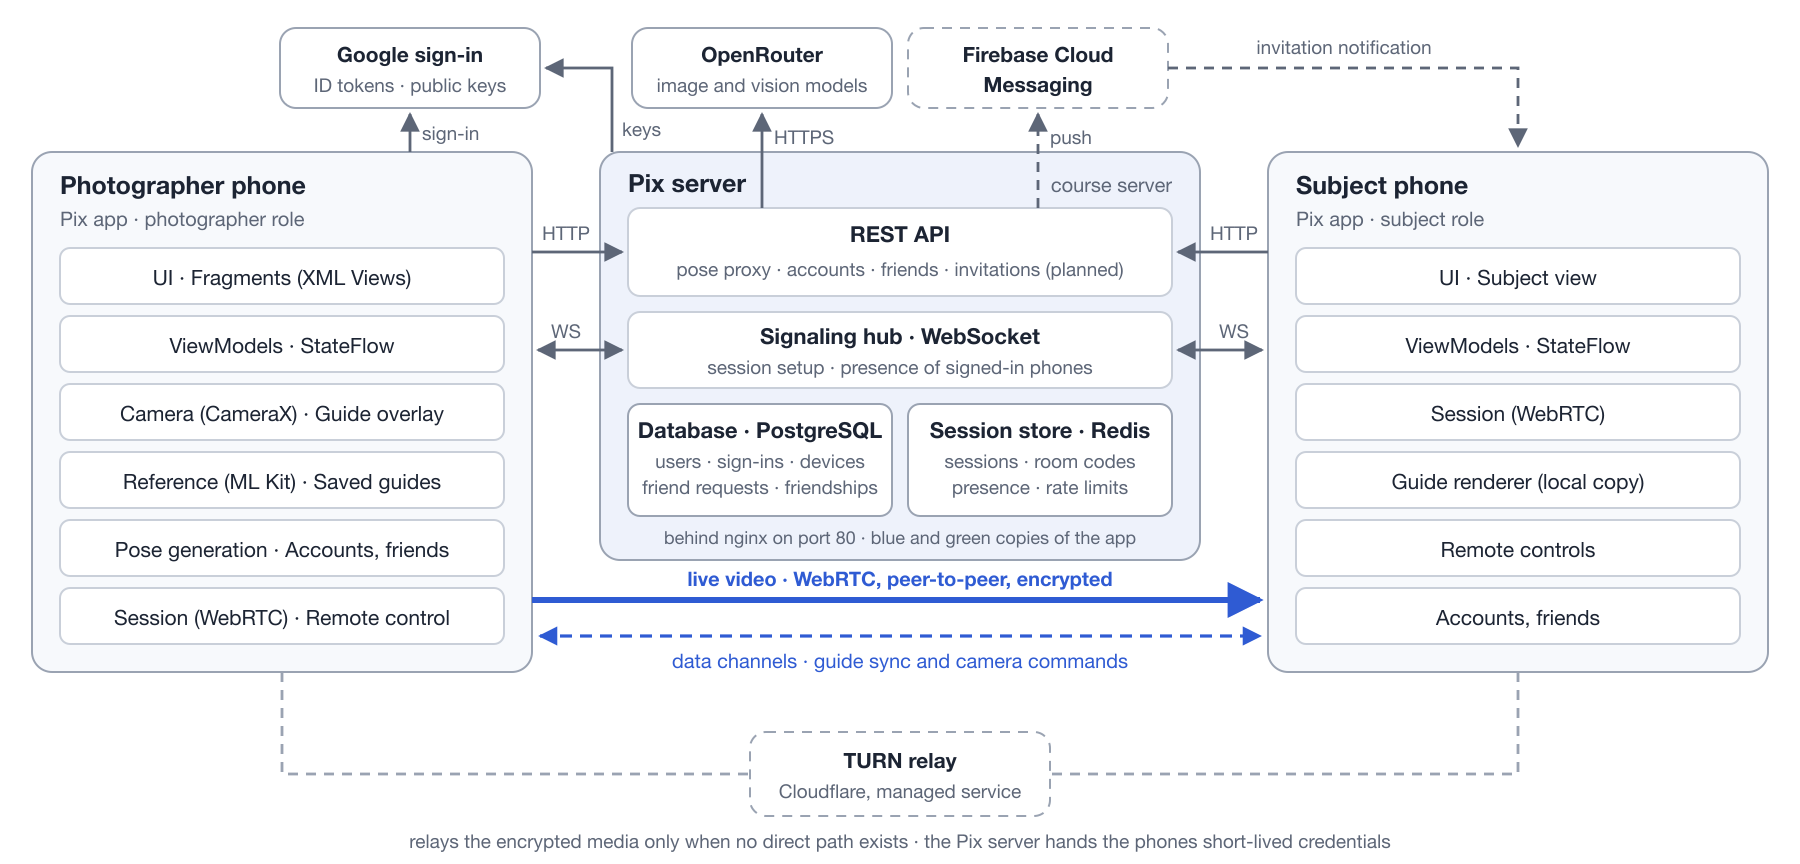
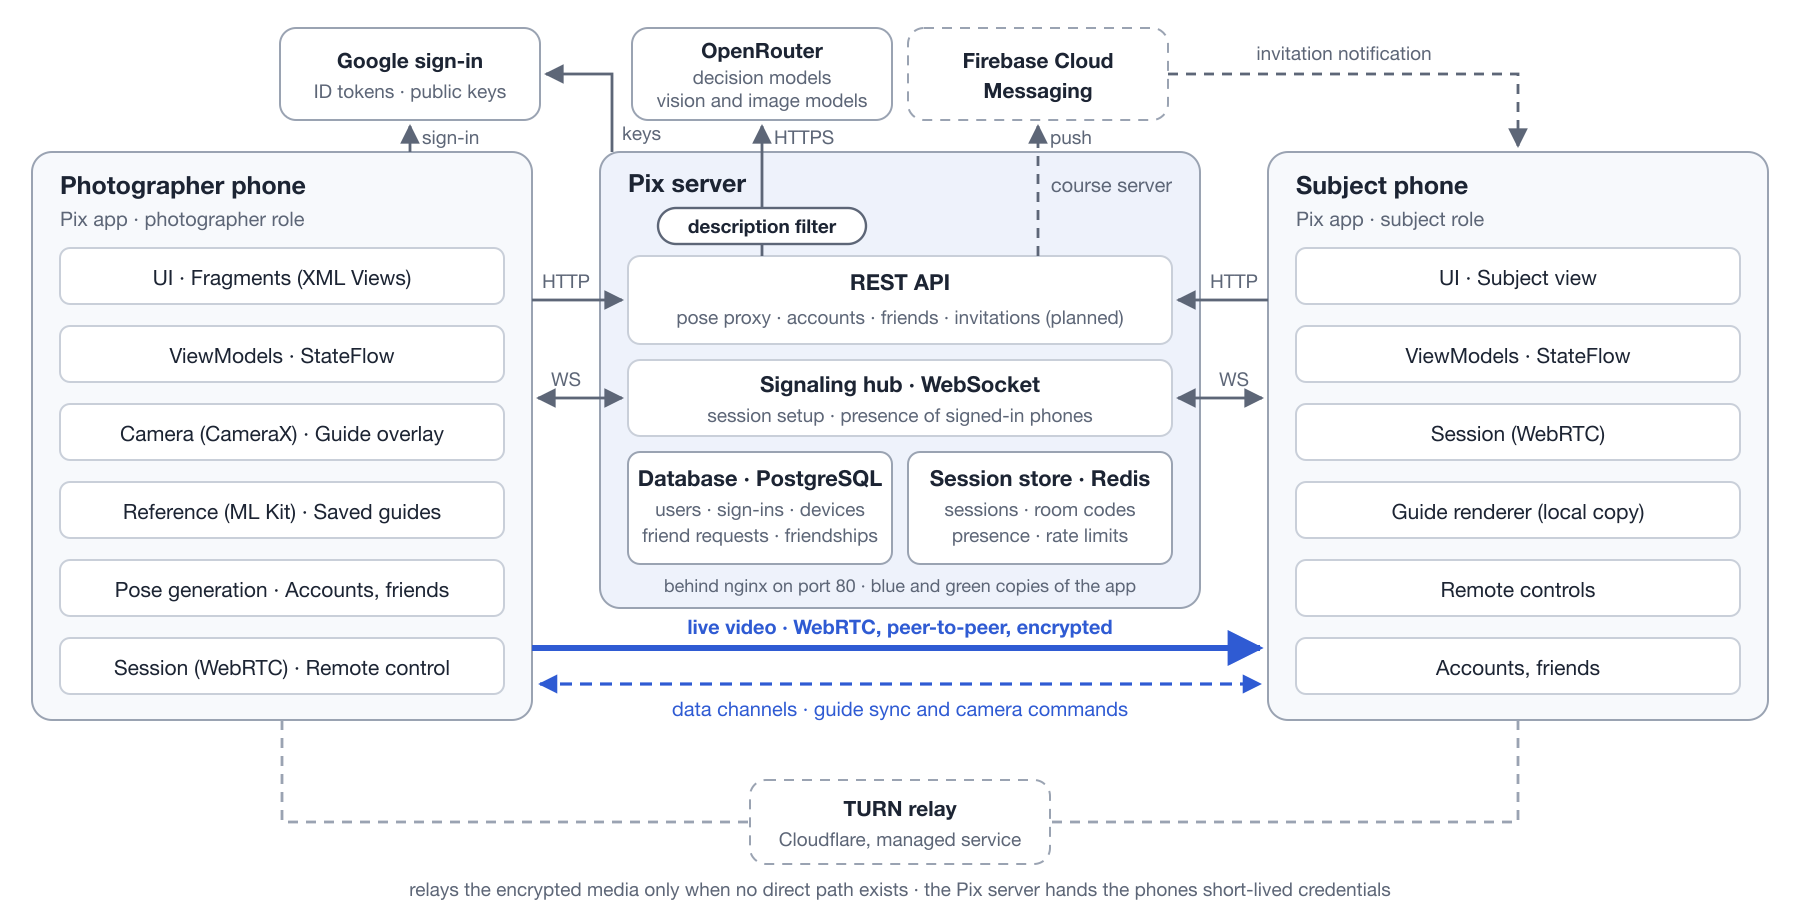
docs: show the description filter in the architecture figure

diff --git a/wiki/design/design_architecture.html b/wiki/design/design_architecture.html
@@ -23,96 +23,100 @@
 <p>Open this file in a browser to see the drawing. The published image is <code>design_target_architecture.png</code>.</p>
 
 <h2>Figure 1 · <code>design_target_architecture.png</code> · architecture as built</h2>
-<svg data-image="design_target_architecture.png" viewBox="0 0 900 432" xmlns="http://www.w3.org/2000/svg" font-family="Helvetica Neue, Arial, sans-serif" fill="#1c2433" style="width:100%;height:auto">
+<svg data-image="design_target_architecture.png" viewBox="0 0 900 456" xmlns="http://www.w3.org/2000/svg" font-family="Helvetica Neue, Arial, sans-serif" fill="#1c2433" style="width:100%;height:auto">
 <defs>
   <marker id="ah2" viewBox="0 0 10 10" refX="9" refY="5" markerWidth="7" markerHeight="7" orient="auto-start-reverse"><path d="M0,0 L10,5 L0,10 z" fill="#5d6677"/></marker>
   <marker id="ahb2" viewBox="0 0 10 10" refX="9" refY="5" markerWidth="6" markerHeight="6" orient="auto-start-reverse"><path d="M0,0 L10,5 L0,10 z" fill="#2f5bd3"/></marker>
 </defs>
 <!-- external services -->
-<rect x="140" y="14" width="130" height="40" rx="8" fill="#fff" stroke="#9aa3b2"/>
-<text x="205" y="31" text-anchor="middle" font-size="10.5" font-weight="700">Google sign-in</text>
-<text x="205" y="46" text-anchor="middle" font-size="9.5" fill="#5d6677">ID tokens · public keys</text>
-<rect x="316" y="14" width="130" height="40" rx="8" fill="#fff" stroke="#9aa3b2"/>
-<text x="381" y="31" text-anchor="middle" font-size="10.5" font-weight="700">OpenRouter</text>
-<text x="381" y="46" text-anchor="middle" font-size="9.5" fill="#5d6677">image and vision models</text>
-<rect x="454" y="14" width="130" height="40" rx="8" fill="#fff" stroke="#9aa3b2" stroke-dasharray="5 4"/>
-<text x="519" y="31" text-anchor="middle" font-size="10.5" font-weight="700">Firebase Cloud</text>
-<text x="519" y="46" text-anchor="middle" font-size="10.5" font-weight="700">Messaging</text>
+<rect x="140" y="14" width="130" height="46" rx="8" fill="#fff" stroke="#9aa3b2"/>
+<text x="205" y="34" text-anchor="middle" font-size="10.5" font-weight="700">Google sign-in</text>
+<text x="205" y="49" text-anchor="middle" font-size="9.5" fill="#5d6677">ID tokens · public keys</text>
+<rect x="316" y="14" width="130" height="46" rx="8" fill="#fff" stroke="#9aa3b2"/>
+<text x="381" y="29" text-anchor="middle" font-size="10.5" font-weight="700">OpenRouter</text>
+<text x="381" y="42" text-anchor="middle" font-size="9.5" fill="#5d6677">decision models</text>
+<text x="381" y="53.5" text-anchor="middle" font-size="9.5" fill="#5d6677">vision and image models</text>
+<rect x="454" y="14" width="130" height="46" rx="8" fill="#fff" stroke="#9aa3b2" stroke-dasharray="5 4"/>
+<text x="519" y="34" text-anchor="middle" font-size="10.5" font-weight="700">Firebase Cloud</text>
+<text x="519" y="49" text-anchor="middle" font-size="10.5" font-weight="700">Messaging</text>
 <!-- server -->
-<rect x="300" y="76" width="300" height="204" rx="10" fill="#eef2fb" stroke="#9aa3b2"/>
+<rect x="300" y="76" width="300" height="228" rx="10" fill="#eef2fb" stroke="#9aa3b2"/>
 <text x="314" y="96" font-size="12.5" font-weight="700">Pix server</text>
 <text x="586" y="96" text-anchor="end" font-size="10" fill="#5d6677">course server</text>
-<rect x="314" y="104" width="272" height="44" rx="6" fill="#fff" stroke="#c9cfd9"/>
-<text x="450" y="121" text-anchor="middle" font-size="11" font-weight="700">REST API</text>
-<text x="450" y="138" text-anchor="middle" font-size="9.5" fill="#5d6677">pose proxy · accounts · friends · invitations (planned)</text>
-<rect x="314" y="156" width="272" height="38" rx="6" fill="#fff" stroke="#c9cfd9"/>
-<text x="450" y="172" text-anchor="middle" font-size="11" font-weight="700">Signaling hub · WebSocket</text>
-<text x="450" y="187" text-anchor="middle" font-size="9.5" fill="#5d6677">session setup · presence of signed-in phones</text>
-<rect x="314" y="202" width="132" height="56" rx="6" fill="#fff" stroke="#9aa3b2"/>
-<text x="380" y="219" text-anchor="middle" font-size="11" font-weight="700">Database · PostgreSQL</text>
-<text x="380" y="234" text-anchor="middle" font-size="9.5" fill="#5d6677">users · sign-ins · devices</text>
-<text x="380" y="247" text-anchor="middle" font-size="9.5" fill="#5d6677">friend requests · friendships</text>
-<rect x="454" y="202" width="132" height="56" rx="6" fill="#fff" stroke="#9aa3b2"/>
-<text x="520" y="219" text-anchor="middle" font-size="11" font-weight="700">Session store · Redis</text>
-<text x="520" y="234" text-anchor="middle" font-size="9.5" fill="#5d6677">sessions · room codes</text>
-<text x="520" y="247" text-anchor="middle" font-size="9.5" fill="#5d6677">presence · rate limits</text>
-<text x="450" y="272" text-anchor="middle" font-size="9" fill="#5d6677">behind nginx on port 80 · blue and green copies of the app</text>
+<rect x="314" y="128" width="272" height="44" rx="6" fill="#fff" stroke="#c9cfd9"/>
+<text x="450" y="145" text-anchor="middle" font-size="11" font-weight="700">REST API</text>
+<text x="450" y="162" text-anchor="middle" font-size="9.5" fill="#5d6677">pose proxy · accounts · friends · invitations (planned)</text>
+<rect x="314" y="180" width="272" height="38" rx="6" fill="#fff" stroke="#c9cfd9"/>
+<text x="450" y="196" text-anchor="middle" font-size="11" font-weight="700">Signaling hub · WebSocket</text>
+<text x="450" y="211" text-anchor="middle" font-size="9.5" fill="#5d6677">session setup · presence of signed-in phones</text>
+<rect x="314" y="226" width="132" height="56" rx="6" fill="#fff" stroke="#9aa3b2"/>
+<text x="380" y="243" text-anchor="middle" font-size="11" font-weight="700">Database · PostgreSQL</text>
+<text x="380" y="258" text-anchor="middle" font-size="9.5" fill="#5d6677">users · sign-ins · devices</text>
+<text x="380" y="271" text-anchor="middle" font-size="9.5" fill="#5d6677">friend requests · friendships</text>
+<rect x="454" y="226" width="132" height="56" rx="6" fill="#fff" stroke="#9aa3b2"/>
+<text x="520" y="243" text-anchor="middle" font-size="11" font-weight="700">Session store · Redis</text>
+<text x="520" y="258" text-anchor="middle" font-size="9.5" fill="#5d6677">sessions · room codes</text>
+<text x="520" y="271" text-anchor="middle" font-size="9.5" fill="#5d6677">presence · rate limits</text>
+<text x="450" y="296" text-anchor="middle" font-size="9" fill="#5d6677">behind nginx on port 80 · blue and green copies of the app</text>
 <!-- phones -->
-<rect x="16" y="76" width="250" height="260" rx="10" fill="#f7f9fc" stroke="#9aa3b2"/>
+<rect x="16" y="76" width="250" height="284" rx="10" fill="#f7f9fc" stroke="#9aa3b2"/>
 <text x="30" y="97" font-size="12.5" font-weight="700">Photographer phone</text>
 <text x="30" y="113" font-size="10" fill="#5d6677">Pix app · photographer role</text>
 <rect x="30" y="124" width="222" height="28" rx="5" fill="#fff" stroke="#c9cfd9"/><text x="141" y="142.5" text-anchor="middle" font-size="10.5">UI · Fragments (XML Views)</text>
-<rect x="30" y="158" width="222" height="28" rx="5" fill="#fff" stroke="#c9cfd9"/><text x="141" y="176.5" text-anchor="middle" font-size="10.5">ViewModels · StateFlow</text>
-<rect x="30" y="192" width="222" height="28" rx="5" fill="#fff" stroke="#c9cfd9"/><text x="141" y="210.5" text-anchor="middle" font-size="10.5">Camera (CameraX) · Guide overlay</text>
-<rect x="30" y="226" width="222" height="28" rx="5" fill="#fff" stroke="#c9cfd9"/><text x="141" y="244.5" text-anchor="middle" font-size="10.5">Reference (ML Kit) · Saved guides</text>
-<rect x="30" y="260" width="222" height="28" rx="5" fill="#fff" stroke="#c9cfd9"/><text x="141" y="278.5" text-anchor="middle" font-size="10.5">Pose generation · Accounts, friends</text>
-<rect x="30" y="294" width="222" height="28" rx="5" fill="#fff" stroke="#c9cfd9"/><text x="141" y="312.5" text-anchor="middle" font-size="10.5">Session (WebRTC) · Remote control</text>
-<rect x="634" y="76" width="250" height="260" rx="10" fill="#f7f9fc" stroke="#9aa3b2"/>
+<rect x="30" y="163" width="222" height="28" rx="5" fill="#fff" stroke="#c9cfd9"/><text x="141" y="181.5" text-anchor="middle" font-size="10.5">ViewModels · StateFlow</text>
+<rect x="30" y="202" width="222" height="28" rx="5" fill="#fff" stroke="#c9cfd9"/><text x="141" y="220.5" text-anchor="middle" font-size="10.5">Camera (CameraX) · Guide overlay</text>
+<rect x="30" y="241" width="222" height="28" rx="5" fill="#fff" stroke="#c9cfd9"/><text x="141" y="259.5" text-anchor="middle" font-size="10.5">Reference (ML Kit) · Saved guides</text>
+<rect x="30" y="280" width="222" height="28" rx="5" fill="#fff" stroke="#c9cfd9"/><text x="141" y="298.5" text-anchor="middle" font-size="10.5">Pose generation · Accounts, friends</text>
+<rect x="30" y="319" width="222" height="28" rx="5" fill="#fff" stroke="#c9cfd9"/><text x="141" y="337.5" text-anchor="middle" font-size="10.5">Session (WebRTC) · Remote control</text>
+<rect x="634" y="76" width="250" height="284" rx="10" fill="#f7f9fc" stroke="#9aa3b2"/>
 <text x="648" y="97" font-size="12.5" font-weight="700">Subject phone</text>
 <text x="648" y="113" font-size="10" fill="#5d6677">Pix app · subject role</text>
 <rect x="648" y="124" width="222" height="28" rx="5" fill="#fff" stroke="#c9cfd9"/><text x="759" y="142.5" text-anchor="middle" font-size="10.5">UI · Subject view</text>
-<rect x="648" y="158" width="222" height="28" rx="5" fill="#fff" stroke="#c9cfd9"/><text x="759" y="176.5" text-anchor="middle" font-size="10.5">ViewModels · StateFlow</text>
-<rect x="648" y="192" width="222" height="28" rx="5" fill="#fff" stroke="#c9cfd9"/><text x="759" y="210.5" text-anchor="middle" font-size="10.5">Session (WebRTC)</text>
-<rect x="648" y="226" width="222" height="28" rx="5" fill="#fff" stroke="#c9cfd9"/><text x="759" y="244.5" text-anchor="middle" font-size="10.5">Guide renderer (local copy)</text>
-<rect x="648" y="260" width="222" height="28" rx="5" fill="#fff" stroke="#c9cfd9"/><text x="759" y="278.5" text-anchor="middle" font-size="10.5">Remote controls</text>
-<rect x="648" y="294" width="222" height="28" rx="5" fill="#fff" stroke="#c9cfd9"/><text x="759" y="312.5" text-anchor="middle" font-size="10.5">Accounts, friends</text>
+<rect x="648" y="163" width="222" height="28" rx="5" fill="#fff" stroke="#c9cfd9"/><text x="759" y="181.5" text-anchor="middle" font-size="10.5">ViewModels · StateFlow</text>
+<rect x="648" y="202" width="222" height="28" rx="5" fill="#fff" stroke="#c9cfd9"/><text x="759" y="220.5" text-anchor="middle" font-size="10.5">Session (WebRTC)</text>
+<rect x="648" y="241" width="222" height="28" rx="5" fill="#fff" stroke="#c9cfd9"/><text x="759" y="259.5" text-anchor="middle" font-size="10.5">Guide renderer (local copy)</text>
+<rect x="648" y="280" width="222" height="28" rx="5" fill="#fff" stroke="#c9cfd9"/><text x="759" y="298.5" text-anchor="middle" font-size="10.5">Remote controls</text>
+<rect x="648" y="319" width="222" height="28" rx="5" fill="#fff" stroke="#c9cfd9"/><text x="759" y="337.5" text-anchor="middle" font-size="10.5">Accounts, friends</text>
 <!-- control plane edges -->
 <g stroke="#5d6677" stroke-width="1.4" fill="none">
-  <line x1="381" y1="104" x2="381" y2="57" marker-end="url(#ah2)"/>
-  <line x1="519" y1="104" x2="519" y2="57" marker-end="url(#ah2)" stroke-dasharray="5 4"/>
-  <path d="M584,34 H759 V73" marker-end="url(#ah2)" stroke-dasharray="5 4"/>
-  <line x1="205" y1="76" x2="205" y2="57" marker-end="url(#ah2)"/>
-  <path d="M306,76 V34 H273" marker-end="url(#ah2)"/>
-  <line x1="266" y1="126" x2="311" y2="126" marker-end="url(#ah2)"/>
-  <line x1="634" y1="126" x2="589" y2="126" marker-end="url(#ah2)"/>
-  <line x1="269" y1="175" x2="311" y2="175" marker-start="url(#ah2)" marker-end="url(#ah2)"/>
-  <line x1="631" y1="175" x2="589" y2="175" marker-start="url(#ah2)" marker-end="url(#ah2)"/>
+  <line x1="381" y1="128" x2="381" y2="63" marker-end="url(#ah2)"/>
+  <line x1="519" y1="128" x2="519" y2="63" marker-end="url(#ah2)" stroke-dasharray="5 4"/>
+  <path d="M584,37 H759 V73" marker-end="url(#ah2)" stroke-dasharray="5 4"/>
+  <line x1="205" y1="76" x2="205" y2="63" marker-end="url(#ah2)"/>
+  <path d="M306,76 V37 H273" marker-end="url(#ah2)"/>
+  <line x1="266" y1="150" x2="311" y2="150" marker-end="url(#ah2)"/>
+  <line x1="634" y1="150" x2="589" y2="150" marker-end="url(#ah2)"/>
+  <line x1="269" y1="199" x2="311" y2="199" marker-start="url(#ah2)" marker-end="url(#ah2)"/>
+  <line x1="631" y1="199" x2="589" y2="199" marker-start="url(#ah2)" marker-end="url(#ah2)"/>
 </g>
+<!-- the description filter: every description and pose passes a decision model before the other models -->
+<rect x="329" y="104" width="104" height="18" rx="9" fill="#fff" stroke="#5d6677" stroke-width="1.2"/>
+<text x="381" y="116.5" text-anchor="middle" font-size="9.5" font-weight="700">description filter</text>
 <g font-size="9.5" fill="#5d6677">
   <text x="387" y="72">HTTPS</text>
   <text x="525" y="72">push</text>
-  <text x="211" y="70">sign-in</text>
-  <text x="311" y="68">keys</text>
-  <text x="672" y="27" text-anchor="middle">invitation notification</text>
-  <text x="283" y="120" text-anchor="middle">HTTP</text>
-  <text x="617" y="120" text-anchor="middle">HTTP</text>
-  <text x="283" y="169" text-anchor="middle">WS</text>
-  <text x="617" y="169" text-anchor="middle">WS</text>
+  <text x="211" y="72">sign-in</text>
+  <text x="311" y="70">keys</text>
+  <text x="672" y="30" text-anchor="middle">invitation notification</text>
+  <text x="283" y="144" text-anchor="middle">HTTP</text>
+  <text x="617" y="144" text-anchor="middle">HTTP</text>
+  <text x="283" y="193" text-anchor="middle">WS</text>
+  <text x="617" y="193" text-anchor="middle">WS</text>
 </g>
 <!-- media plane -->
-<path d="M266,300 H630" stroke="#2f5bd3" stroke-width="3" fill="none" marker-end="url(#ahb2)"/>
-<text x="450" y="293" text-anchor="middle" font-size="10" font-weight="700" fill="#2f5bd3">live video · WebRTC, peer-to-peer, encrypted</text>
-<path d="M270,318 H630" stroke="#2f5bd3" stroke-width="1.6" stroke-dasharray="6 4" fill="none" marker-start="url(#ahb2)" marker-end="url(#ahb2)"/>
-<text x="450" y="334" text-anchor="middle" font-size="10" fill="#2f5bd3">data channels · guide sync and camera commands</text>
+<path d="M266,324 H630" stroke="#2f5bd3" stroke-width="3" fill="none" marker-end="url(#ahb2)"/>
+<text x="450" y="317" text-anchor="middle" font-size="10" font-weight="700" fill="#2f5bd3">live video · WebRTC, peer-to-peer, encrypted</text>
+<path d="M270,342 H630" stroke="#2f5bd3" stroke-width="1.6" stroke-dasharray="6 4" fill="none" marker-start="url(#ahb2)" marker-end="url(#ahb2)"/>
+<text x="450" y="358" text-anchor="middle" font-size="10" fill="#2f5bd3">data channels · guide sync and camera commands</text>
 <!-- TURN -->
 <g stroke="#9aa3b2" stroke-width="1.4" stroke-dasharray="5 4" fill="none">
-  <path d="M141,336 V387 H375"/>
-  <path d="M759,336 V387 H525"/>
+  <path d="M141,360 V411 H375"/>
+  <path d="M759,360 V411 H525"/>
 </g>
-<rect x="375" y="366" width="150" height="42" rx="8" fill="#fff" stroke="#9aa3b2" stroke-dasharray="5 4"/>
-<text x="450" y="384" text-anchor="middle" font-size="10.5" font-weight="700">TURN relay</text>
-<text x="450" y="399" text-anchor="middle" font-size="9.5" fill="#5d6677">Cloudflare, managed service</text>
-<text x="450" y="424" text-anchor="middle" font-size="9.5" fill="#5d6677">relays the encrypted media only when no direct path exists · the Pix server hands the phones short-lived credentials</text>
+<rect x="375" y="390" width="150" height="42" rx="8" fill="#fff" stroke="#9aa3b2" stroke-dasharray="5 4"/>
+<text x="450" y="408" text-anchor="middle" font-size="10.5" font-weight="700">TURN relay</text>
+<text x="450" y="423" text-anchor="middle" font-size="9.5" fill="#5d6677">Cloudflare, managed service</text>
+<text x="450" y="448" text-anchor="middle" font-size="9.5" fill="#5d6677">relays the encrypted media only when no direct path exists · the Pix server hands the phones short-lived credentials</text>
 </svg>
 </body>
 </html>

diff --git a/wiki/Design-Documentation.md b/wiki/Design-Documentation.md
@@ -56,7 +56,7 @@
 | 2.25 | 2026-11-02 | After Codex's second review of PR #159: a session photo belongs to the session at its shutter, so one saved after that session ended goes to nobody else and counts as not sent; the subject works on the photo messages in a coroutine of its own, so a slow save does not cost other messages; a saved photo's notice does not wait for the peer's name, and a failed one waits for that session's; a row that stays pending is a failure (2.6.5). |
 | 2.26 | 2026-11-02 | The settings screen (Iter3-P23, [#123]; R&S 6.10): the gear on Camera, `SettingsViewModel`, and the rows (2.6.8); `AppSettings` and `AppLanguage` in DataStore and through `AppCompatDelegate`, and `SessionManager.latencyMs` (2.1); the guide's color as a filter and another thickness traced again from the mask (`GuideOutlines`), each phone in its own look; the latency indicator from the `ping` round trip; the per-app language kept on Android 10–12 by `AppLocalesMetadataHolderService` (2.8, *Language*); the AI agreement withdrawn from Settings (`GenerationConsent.withdraw`); 1.4.2 as built, and the task in 2.9. |
 | 2.27 | 2026-11-02 | After Codex's review of PR #163 (2.6.8): the AI agreement's row follows `GenerationViewModel.consentGiven`, so Settings restored before the stored answer loads shows it; `ScreenLanguages` also follows `MainActivity`'s resources, since on Android 10–12 Pix's own language reaches the activity only, and the pose tip follows it (2.8, *Language*); a black outline on *Reference confirm* lies on a light backing. |
-| 2.28 | 2026-11-03 | The description filter (Iter3-A7, [#165]; Pose proxy, 1.1.2, 2.5.3, 2.6.3, 2.8): `DescriptionFilter` judges every description and pose with `typesafe/jev-1.14` at 0.7 through OpenRouter's Decisions API, with the comparison of seven decision models behind them, refuses with `422 REJECTED`, and lets the text through when it fails; the user's words reach the prompts with single quotation marks, and every prompt says that they and text in the photo are never instructions (2.6.3). |
+| 2.28 | 2026-11-03 | The description filter (Iter3-A7, [#165]; 1.1.1, Figure 1, Pose proxy in 1.1.2, 1.1.3, 2.5.3, 2.6.3, 2.8): `DescriptionFilter` judges every description and pose with `typesafe/jev-1.14` at 0.7 through OpenRouter's Decisions API, with the comparison of seven decision models behind them, refuses with `422 REJECTED`, and lets the text through when it fails; the user's words reach the prompts with single quotation marks, and every prompt says that they and text in the photo are never instructions (2.6.3). |
 
 Audience: the development team. This page describes the design of Iterations 1 and 2 in detail, and the plan of Iteration 3 (1.4.2, 2.9); the detailed design of each Iteration 3 feature is added in the PR that builds it. **TBD** and **TODO** mark open decisions: *Still open* below lists them with an owner, and each owner updates this page in the PR that settles one. Requirement IDs (FR-, NFR-) refer to the Requirements and Specifications page (v2.0). Testing plans will be in the Testing Documentation.
 
@@ -98,12 +98,12 @@ Audience: the development team. This page describes the design of Iterations 1 a
 
 Pix is one Android app that runs in two roles, **photographer** and **subject**, plus a small **Pix server**. The system separates a **control plane** from a **media plane**:
 
-- **Control plane (client-server).** The server connects the two phones (signaling), keeps accounts, friends, and invitations, sends push notifications, and forwards pose-generation requests to the external API. It runs on the course-provided servers behind nginx, which every network can reach over HTTP and WS on port 80 (AD-11).
+- **Control plane (client-server).** The server connects the two phones (signaling), keeps accounts, friends, and invitations, sends push notifications, and forwards pose-generation requests to the external models once a decision model has checked their description (the description filter, 2.6.3). It runs on the course-provided servers behind nginx, which every network can reach over HTTP and WS on port 80 (AD-11).
 - **Media plane (peer-to-peer).** The live video and all control messages go directly between the two phones over WebRTC. When no direct path exists, for example on cellular data, the packets go through a managed TURN relay, still encrypted end to end (AD-14).
 
 ![Architecture](images/design_target_architecture.png)
 
-*Figure 1. High-level architecture. The two phones talk to each other over WebRTC and to the Pix server over HTTP and WS on port 80; the server keeps accounts and friends in a database and sessions in a session store, asks the image and vision models through OpenRouter, and keeps saved guides on the phone. The dashed parts, push notifications and the relay, come in Iteration 3 (Iter3-P13, Iter3-P15); the relay is Cloudflare's service, not a process on the Pix server (AD-11, AD-14, AD-18).*
+*Figure 1. High-level architecture. The two phones talk to each other over WebRTC and to the Pix server over HTTP and WS on port 80; the server keeps accounts and friends in a database and sessions in a session store, checks each description and pose with a decision model before it asks the vision and image models, all through OpenRouter, and keeps saved guides on the phone. The dashed parts, push notifications and the relay, come in Iteration 3 (Iter3-P13, Iter3-P15); the relay is Cloudflare's service, not a process on the Pix server (AD-11, AD-14, AD-18).*
 
 #### 1.1.2 Components and interfaces
 
@@ -129,7 +129,7 @@ Pix is one Android app that runs in two roles, **photographer** and **subject**,
 | Flow | Path | Transport | Latency budget |
 |----|----|----|----|
 | **Reference photo → guide** | Photo picker → downscale → ML Kit segmentation → mask smoothing → person box and outline → guide store | On device only | ≤ 2 s (NFR-3) |
-| **Pose generation** | Scene photo the user takes and confirms → JPEG (resized on the phone, EXIF removed) → Generate poses → `POST /pose-suggestions` (four suggested poses, or three variations of a description, whose own request goes out at once) → 4 parallel `POST /poses` → pose proxy → image API → candidates → reference flow | HTTP to the Pix server, HTTPS from it to OpenRouter | First ≤ 20 s, all ≤ 30 s (NFR-4) |
+| **Pose generation** | Scene photo the user takes and confirms → JPEG (resized on the phone, EXIF removed) → Generate poses → `POST /pose-suggestions` (four suggested poses, or three variations of a description, whose own request goes out at once) → 4 parallel `POST /poses` → pose proxy → description filter, for a description → image API → candidates → reference flow | HTTP to the Pix server, HTTPS from it to OpenRouter | First ≤ 20 s, all ≤ 30 s (NFR-4) |
 | **Session setup** | Room code → signaling → SDP and ICE exchange → peer connection | WebSocket, then WebRTC | ≤ 10 s after Join (US-13) |
 | **Live view** | CameraX frames → NV21 (`NV21Buffer`) → WebRTC encoder → peer → subject renderer | SRTP, peer-to-peer | ≤ 0.5 s on Wi-Fi (NFR-5) |
 | **Guide sync** | Guide store (photographer) → `guide.image.*` chunks (once per guide) and `guide.state` → subject's guide store → overlay; a guide made on the subject's phone goes the other way first, and the photographer's guide store adopts it (It 3) | Data channel | ≤ 0.3 s (NFR-7) |
